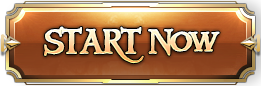
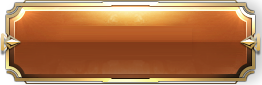
闪光

diff --git a/pirate-pro/src/components/template/HeaderBanner.vue b/pirate-pro/src/components/template/HeaderBanner.vue
@@ -1,7 +1,10 @@
 <template>
   <div class="header-banner" :style="{'height':topheight}">
     <div class="topright" @click="changeLocale()">{{$t("message.tabhome")}}</div>
-    <div class="startbtn"></div>
+    <div class="startbtn">
+      <div class="btnanimation"></div>
+      <div class="btntitle" @mouseover="quicklight($event)" @mouseout="normallight($event)"></div>
+    </div>
     <div class="topnav" :style="{'height':topnavheight}">
       <ul class="navul">
         <li><router-link to="presale"></router-link></li>
@@ -26,6 +29,14 @@ export default {
     changeLocale: function (locale) {
       this.$i18n.locale == "zh-ch" ? this.$i18n.locale = "en" : this.$i18n.locale = "zh-ch" ;
       console.log(this.$i18n.locale);
+    },
+    quicklight: function (e) {
+      var div = e.target;
+      div.previousElementSibling.classList.add("quick");
+    },
+    normallight: function(e){
+      var div = e.target;
+      div.previousElementSibling.classList.remove("quick");
     }
   },
   mounted:function(){
@@ -70,6 +81,43 @@ export default {
     top: 69.74%;
     background: url("../../assets/topbtn.png") center center no-repeat;
     background-size: 100% 100%;
+    z-index: 0;
+  }
+  .btntitle{
+    width: 100%;
+    height: 100%;
+    background:url("../../assets/topbtntitle.png") center center no-repeat; 
+    background-size: cover;
+    position: absolute;
+    z-index: 3;
+  }
+  .btnanimation{
+    width: 95%;
+    height: 98%;
+    margin-left: 2%;
+    position: absolute;
+    z-index: 2;
+    background:rgba(132,62,26,.4); 
+    border-radius: 20px;
+    animation: btnlight 1s infinite alternate;
+  }
+  @keyframes btnlight{
+    from {background:rgba(155,62,26,.6); }
+    to {background:rgba(255,155,90,.4); }
+  }
+  .quick{
+    width: 95%;
+    height: 98%;
+    margin-left: 2%;
+    position: absolute;
+    z-index: 2;
+    background:rgba(132,62,26,.4); 
+    border-radius: 20px;
+    animation: none .3s infinite alternate;
+  }
+  @keyframes none{
+    from {background:rgba(155,62,26,.5); }
+    to {background:rgba(230,170,100,.4); }
   }
   .topnav{ 
     width:76.88%;

diff --git a/pirate-pro/src/components/template/Presale.vue b/pirate-pro/src/components/template/Presale.vue
@@ -4,7 +4,9 @@
       {{$t("message.tabhome")}}
       <div class="pretitle"></div>
       <ul class="preplayer">
-        <li></li><li></li><li></li>
+        <li><div @mouseover="light($event)" @mouseout="none($event)"><div></div></div></li>
+        <li><div @mouseover="light($event)" @mouseout="none($event)"><div></div></div></li>
+        <li><div @mouseover="light($event)" @mouseout="none($event)"><div></div></div></li>
       </ul>
       <ul class="prebtn">
         <li></li><li></li><li></li>
@@ -19,6 +21,16 @@ export default {
   data () {
     return {
       playersheight: document.documentElement.clientWidth/ 1920 * 950 + "px"
+    }
+  },
+  methods: {
+    light: function (e) {
+      var div = e.target;
+      div.childNodes[0].classList.add("light");
+    },
+    none: function (e) {
+      var div = e.target;
+      div.childNodes[0].classList.remove("light");
     }
   },
   created:function(){
@@ -89,5 +101,39 @@ export default {
 .prebtn li:nth-child(3){
   background:url("../../assets/player3b.png");
   background-size: 100% 100%; 
+}
+.preplayer li div{
+  width: 70%;
+  height: 90%;
+  margin: 5% 9%;
+  position: relative;
+  top: 10px;
+  left: 20px;
+  z-index: 2;
+  background:transparent;
+  overflow: hidden; 
+}
+.preplayer li div div{
+  width: 200%;
+  height: 9%;
+  margin: 0;
+  position: relative;
+  top: -10px;
+  left: 20px;
+  z-index: 3;
+  background:linear-gradient(0deg,rgba(250,220,150,0),rgba(250,220,150,0.3),rgba(250,220,150,0));
+  transform: rotate(45deg);
+}
+.preplayer li div div.light{
+  width: 200%;
+  height: 9%;
+  margin: 0;
+  position: relative;
+  top: 410px;
+  left: -270px;
+  z-index: 3;
+  background:linear-gradient(0deg,rgba(250,220,150,0),rgba(250,220,150,0.3),rgba(250,220,150,0));
+  transform: rotate(45deg);
+  transition: all .3s linear;
 }
 </style>
